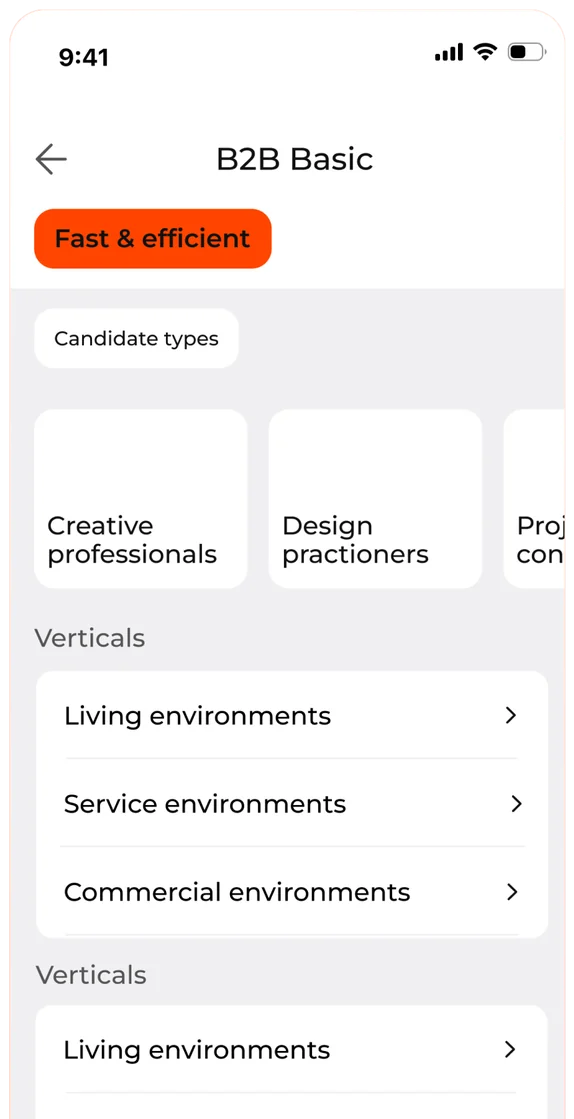
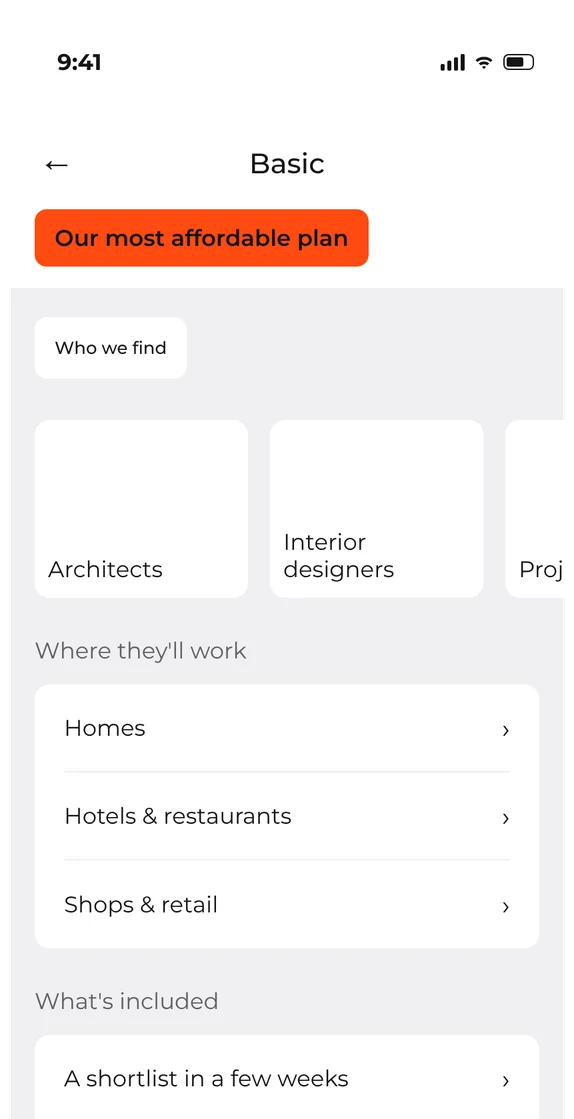
Service Design: rewrite the Basic plan screen, anonymised and without the repeated list
Claude-Session: https://claude.ai/code/session_0125CzzT5S3G4ujjDNa4kPYe

diff --git a/design-references/service-basic-screen.html b/design-references/service-basic-screen.html
@@ -1,0 +1,39 @@
+<!doctype html><html><head><meta charset="utf-8"><style>
+@font-face{font-family:M;font-weight:400;src:url(https://cdn.jsdelivr.net/npm/@fontsource/montserrat@5.1.0/files/montserrat-latin-400-normal.woff2)}
+@font-face{font-family:M;font-weight:500;src:url(https://cdn.jsdelivr.net/npm/@fontsource/montserrat@5.1.0/files/montserrat-latin-500-normal.woff2)}
+@font-face{font-family:M;font-weight:600;src:url(https://cdn.jsdelivr.net/npm/@fontsource/montserrat@5.1.0/files/montserrat-latin-600-normal.woff2)}
+@font-face{font-family:M;font-weight:700;src:url(https://cdn.jsdelivr.net/npm/@fontsource/montserrat@5.1.0/files/montserrat-latin-700-normal.woff2)}
+*{margin:0;padding:0;box-sizing:border-box}
+body{width:833px;height:1665px;font-family:M,sans-serif;background:#efeff1;color:#141414;overflow:hidden}
+.top{background:#fff;height:418px;position:relative}
+.status{position:absolute;top:58px;left:72px;right:46px;display:flex;justify-content:space-between;align-items:center;font-weight:700;font-size:34px}
+.icons{display:flex;gap:12px;align-items:center}
+.bars{display:flex;gap:4px;align-items:flex-end}.bars i{width:6px;background:#141414;border-radius:2px}
+.bat{width:46px;height:24px;border:2.5px solid #141414;border-radius:8px;position:relative}.bat::after{content:"";position:absolute;inset:3px 14px 3px 3px;background:#141414;border-radius:3px}
+.head{position:absolute;top:205px;left:0;right:0;text-align:center;font-size:42px;font-weight:500}
+.head span{position:absolute;left:44px;top:-14px;font-size:54px;font-weight:400}
+.pill{position:absolute;top:300px;left:38px;background:#ff4a12;color:#141414;font-weight:600;font-size:34px;padding:22px 30px;border-radius:18px}
+.body{padding:44px 38px 0}
+.chip{display:inline-block;background:#fff;border-radius:18px;font-size:26px;font-weight:500;padding:30px 30px}
+.cards{display:flex;gap:33px;margin-top:62px;width:1200px}
+.card{width:320px;height:267px;background:#fff;border-radius:22px;padding:22px 20px;display:flex;align-items:flex-end;font-size:34px;line-height:1.2}
+.label{margin-top:58px;font-size:34px;color:#5f5f66}
+.list{margin-top:30px;background:#fff;border-radius:22px;padding:0 44px}
+.row{display:flex;justify-content:space-between;align-items:center;height:132px;font-size:34px;border-bottom:2px solid #ececee}
+.row:last-child{border-bottom:0}
+.row b{font-weight:400;font-size:40px}
+</style></head><body>
+<div class="top">
+ <div class="status"><span>9:41</span><span class="icons"><span class="bars"><i style="height:10px"></i><i style="height:15px"></i><i style="height:20px"></i><i style="height:25px"></i></span><svg width="34" height="24" viewBox="0 0 24 17"><path d="M12 3c3.5 0 6.6 1.3 9 3.5l-2 2C17.1 6.8 14.7 6 12 6S6.9 6.8 5 8.5l-2-2C5.4 4.3 8.5 3 12 3zm0 5c2.2 0 4.1.8 5.6 2.1l-2 2C14.6 11.4 13.4 11 12 11s-2.6.4-3.6 1.1l-2-2C7.9 8.8 9.8 8 12 8zm0 5c.9 0 1.6.3 2.1.8L12 16l-2.1-2.2c.5-.5 1.2-.8 2.1-.8z" fill="#141414"/></svg><span class="bat"></span></span></div>
+ <div class="head"><span>&#8592;</span>Basic</div>
+ <div class="pill">Our most affordable plan</div>
+</div>
+<div class="body">
+ <span class="chip">Who we find</span>
+ <div class="cards"><div class="card">Architects</div><div class="card">Interior designers</div><div class="card">Project leads</div></div>
+ <p class="label">Where they'll work</p>
+ <div class="list"><div class="row">Homes<b>&#8250;</b></div><div class="row">Hotels &amp; restaurants<b>&#8250;</b></div><div class="row">Shops &amp; retail<b>&#8250;</b></div></div>
+ <p class="label">What's included</p>
+ <div class="list"><div class="row">A shortlist in a few weeks<b>&#8250;</b></div><div class="row">Free replacement for 3 months<b>&#8250;</b></div></div>
+</div>
+</body></html>
